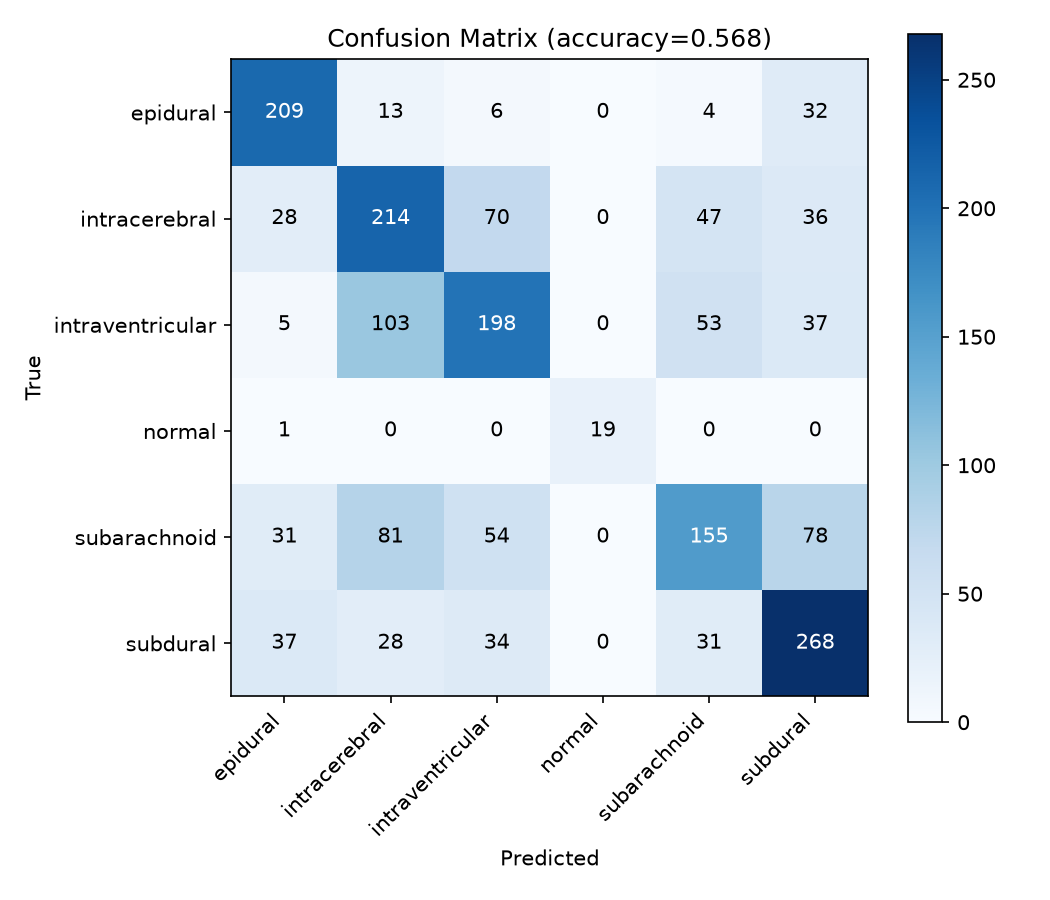
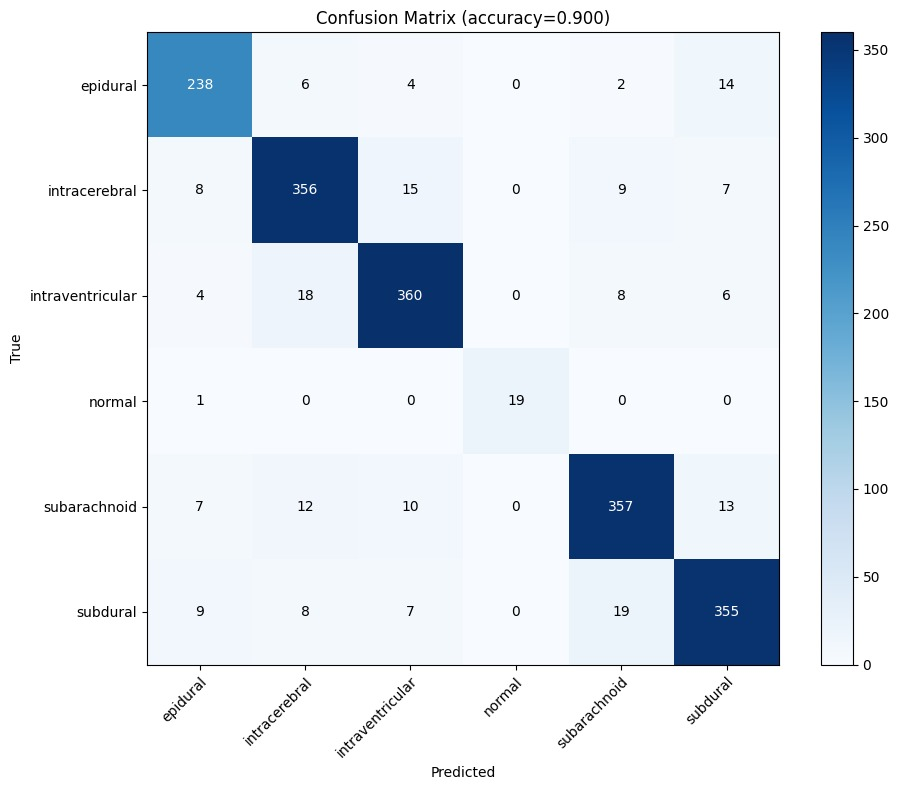
All changes

diff --git a/frontend/js/config.js b/frontend/js/config.js
@@ -1,10 +1,4 @@
-// ---------------------------------------------------------------------------
-// config.js
-// Fill these in with your own Supabase project details and backend URL.
-// Get SUPABASE_URL and SUPABASE_ANON_KEY from: Supabase Dashboard -> Project
-// Settings -> API. The anon key is safe to expose in frontend code (it only
-// works within the Row Level Security rules defined in supabase/schema.sql).
-// ---------------------------------------------------------------------------
+
 window.CONFIG = {
   SUPABASE_URL: "https://kwvxtcnzmfdgehidrtib.supabase.co",
   SUPABASE_ANON_KEY: "eyJhbGciOiJIUzI1NiIsInR5cCI6IkpXVCJ9.eyJpc3MiOiJzdXBhYmFzZSIsInJlZiI6Imt3dnh0Y256bWZkZ2VoaWRydGliIiwicm9sZSI6ImFub24iLCJpYXQiOjE3ODgwNjk3MjksImV4cCI6MjEwMzY0NTcyOX0.fFFaCGrGRtWCbv2Gn0xaGfH1Xv5fhS0wQglaV1fps2w",

diff --git a/backend/train.py b/backend/train.py
@@ -1,29 +1,7 @@
-"""
-train.py
-Fine-tunes HaemorrhageNet on your dataset.
-
-Expected data layout (ImageFolder style) — produced automatically by
-prepare_dataset.py if you're using the vbookshelf CT-ICH Kaggle dataset:
-
-    dataset/
-        train/
-            Normal/            *.jpg / *.png
-            Hemorrhage/
-        val/
-            Normal/
-            Hemorrhage/
-
-(If you switch model.py to full subtype classification later, just add
-the matching subfolders — this script is agnostic to class count.)
-
-Usage:
-    python train.py --data_dir dataset --epochs 15 --batch_size 16
-"""
 
 import argparse
 import os
 import time
-
 import torch
 import torch.nn as nn
 import torch.optim as optim
